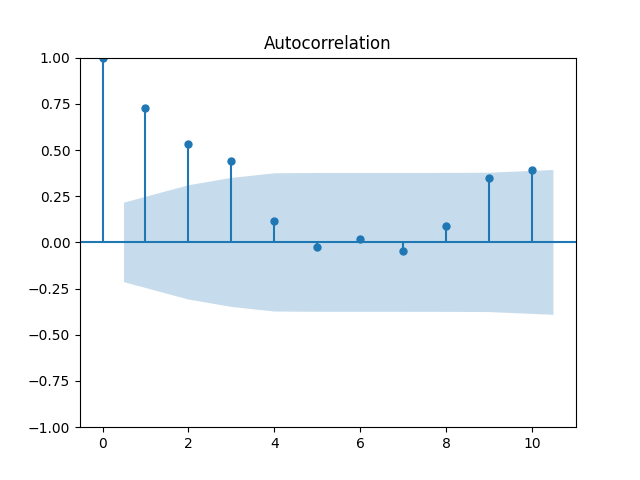
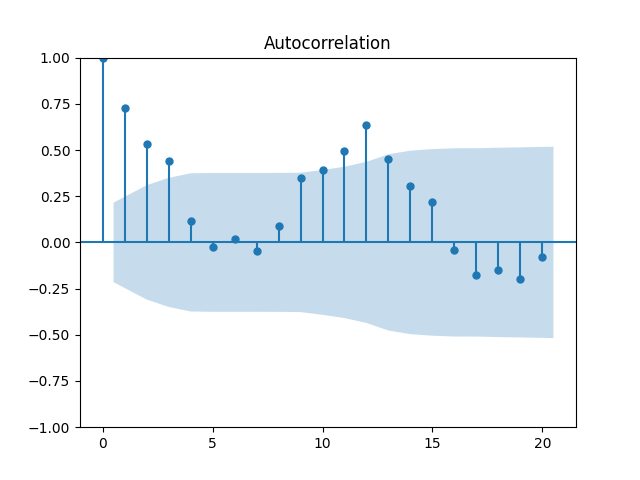
added figures

diff --git a/homework_2/hw2.py b/homework_2/hw2.py
@@ -5,6 +5,8 @@ from statsmodels.graphics import tsaplots
 import matplotlib.pyplot as plt
 from pandas import Series
 from statsmodels.graphics.tsaplots import plot_pacf
+import statsmodels.api as sm
+import seaborn as sns
 
 
 def problem_1a(show=True):
@@ -72,6 +74,38 @@ def problem_1c(show=True):
         plt.show()
 
 
+def problem_2(show=True):
+    df = pd.read_excel(
+        "HMWK3_Data.xlsx",
+        sheet_name=2,
+        parse_dates=True,
+        index_col="Date",
+    )
+    df = df.tail(200)
+
+    x = df["Close"]
+
+    auto_correlation = sm.tsa.acf(x, missing="drop")
+    print(auto_correlation)
+    print(len(auto_correlation))
+
+    fig = tsaplots.plot_acf(x, missing="drop")
+
+    tesla = df["Close"]
+    tesla_5 = tesla.rolling(window=10).mean()
+
+    plt.figure(figsize=(10, 5))
+    plt.plot(tesla, "k-", label="Original")
+    plt.plot(tesla_5, "r-", label="Running average 5 unit")
+    plt.xlabel("Date")
+    plt.grid(linestyle=":")
+    # plt.fill_between(co2.index, 0, co2, color="r", alpha=0.1)
+    plt.legend(loc="upper left")
+
+    if show:
+        plt.show()
+
+
 def problem_3(show=True):
     df = pd.read_excel(
         "HMWK3_Data.xlsx",
@@ -82,9 +116,10 @@ def problem_3(show=True):
     x = df["miles"]
 
     auto_correlation = sm.tsa.acf(x)
-    print(auto_correlation)
+    for idx, value in enumerate(auto_correlation):
+        print(f"lag {idx}: {value}")
 
-    fig = tsaplots.plot_acf(x, lags=10)
+    fig = tsaplots.plot_acf(x)
 
     if show:
         plt.show()
@@ -100,22 +135,82 @@ def problem_4(show=True):
     )
 
     df["miles_log"] = np.log(df["miles"])
-    x = np.log2(df["miles_log"])
+    x = df["miles_log"]
 
     auto_correlation = sm.tsa.acf(x)
     print(auto_correlation)
 
-    # fig = tsaplots.plot_acf(x, lags=10)
+    fig = tsaplots.plot_acf(x)
 
-    df["miles"].plot(x="dates")
+    # df["miles_log"].plot()
 
     if show:
         plt.show()
 
 
+def problem_5(show=True):
+    df = pd.read_excel(
+        "HMWK3_Data.xlsx",
+        parse_dates=True,
+        sheet_name=3,
+        # squeeze=True,
+    )
+    co2 = df["co2"]
+    co2_5 = co2.rolling(window=6).mean()
+
+    print(df)
+    print(co2_5)
+
+    plt.figure(figsize=(10, 5))
+    plt.plot(co2, "k-", label="Original")
+    plt.plot(co2_5, "r-", label="Running average 5 unit")
+    plt.xlabel("Date")
+    plt.grid(linestyle=":")
+    # plt.fill_between(co2.index, 0, co2, color="r", alpha=0.1)
+    plt.legend(loc="upper left")
+    plt.show()
+
+
+def problem_6(show=True):
+    df = pd.read_excel("HMWK3_Data.xlsx", sheet_name=4, index_col="Index")
+    x = df["error"]
+    print(x)
+    # auto_correlation = sm.tsa.acf(x)
+    # for idx, value in enumerate(auto_correlation):
+    #     print(f"lag {idx}: {value}")
+
+    # fig = tsaplots.plot_acf(x)
+
+    MSE = 0
+    for i in x.values.tolist():
+        MSE += float(i) * float(i)
+    print(f"MSE: {MSE}")
+
+    absDev = 0
+    mean = x.mean()
+    for i in x.values.tolist():
+        absDev += abs(i - mean)
+    print(f"mean absolute deviation: {absDev}")
+
+    # # define distributions
+    # sample_size = 10000
+    # standard_norm = x
+
+    # # plots for standard distribution
+    # fig, ax = plt.subplots(1, 2, figsize=(12, 7))
+    # sns.histplot(standard_norm, kde=True, color="blue", ax=ax[0])
+    # sm.ProbPlot(standard_norm).qqplot(line="s", ax=ax[1])
+
+    # if show:
+    #     plt.show()
+
+
 if __name__ == "__main__":
     # problem_1a(True)
     # problem_1b(True)
-    problem_1c()
+    # problem_1c()
+    # problem_2()
     # problem_3()
     # problem_4()
+    # problem_5()
+    problem_6(False)
